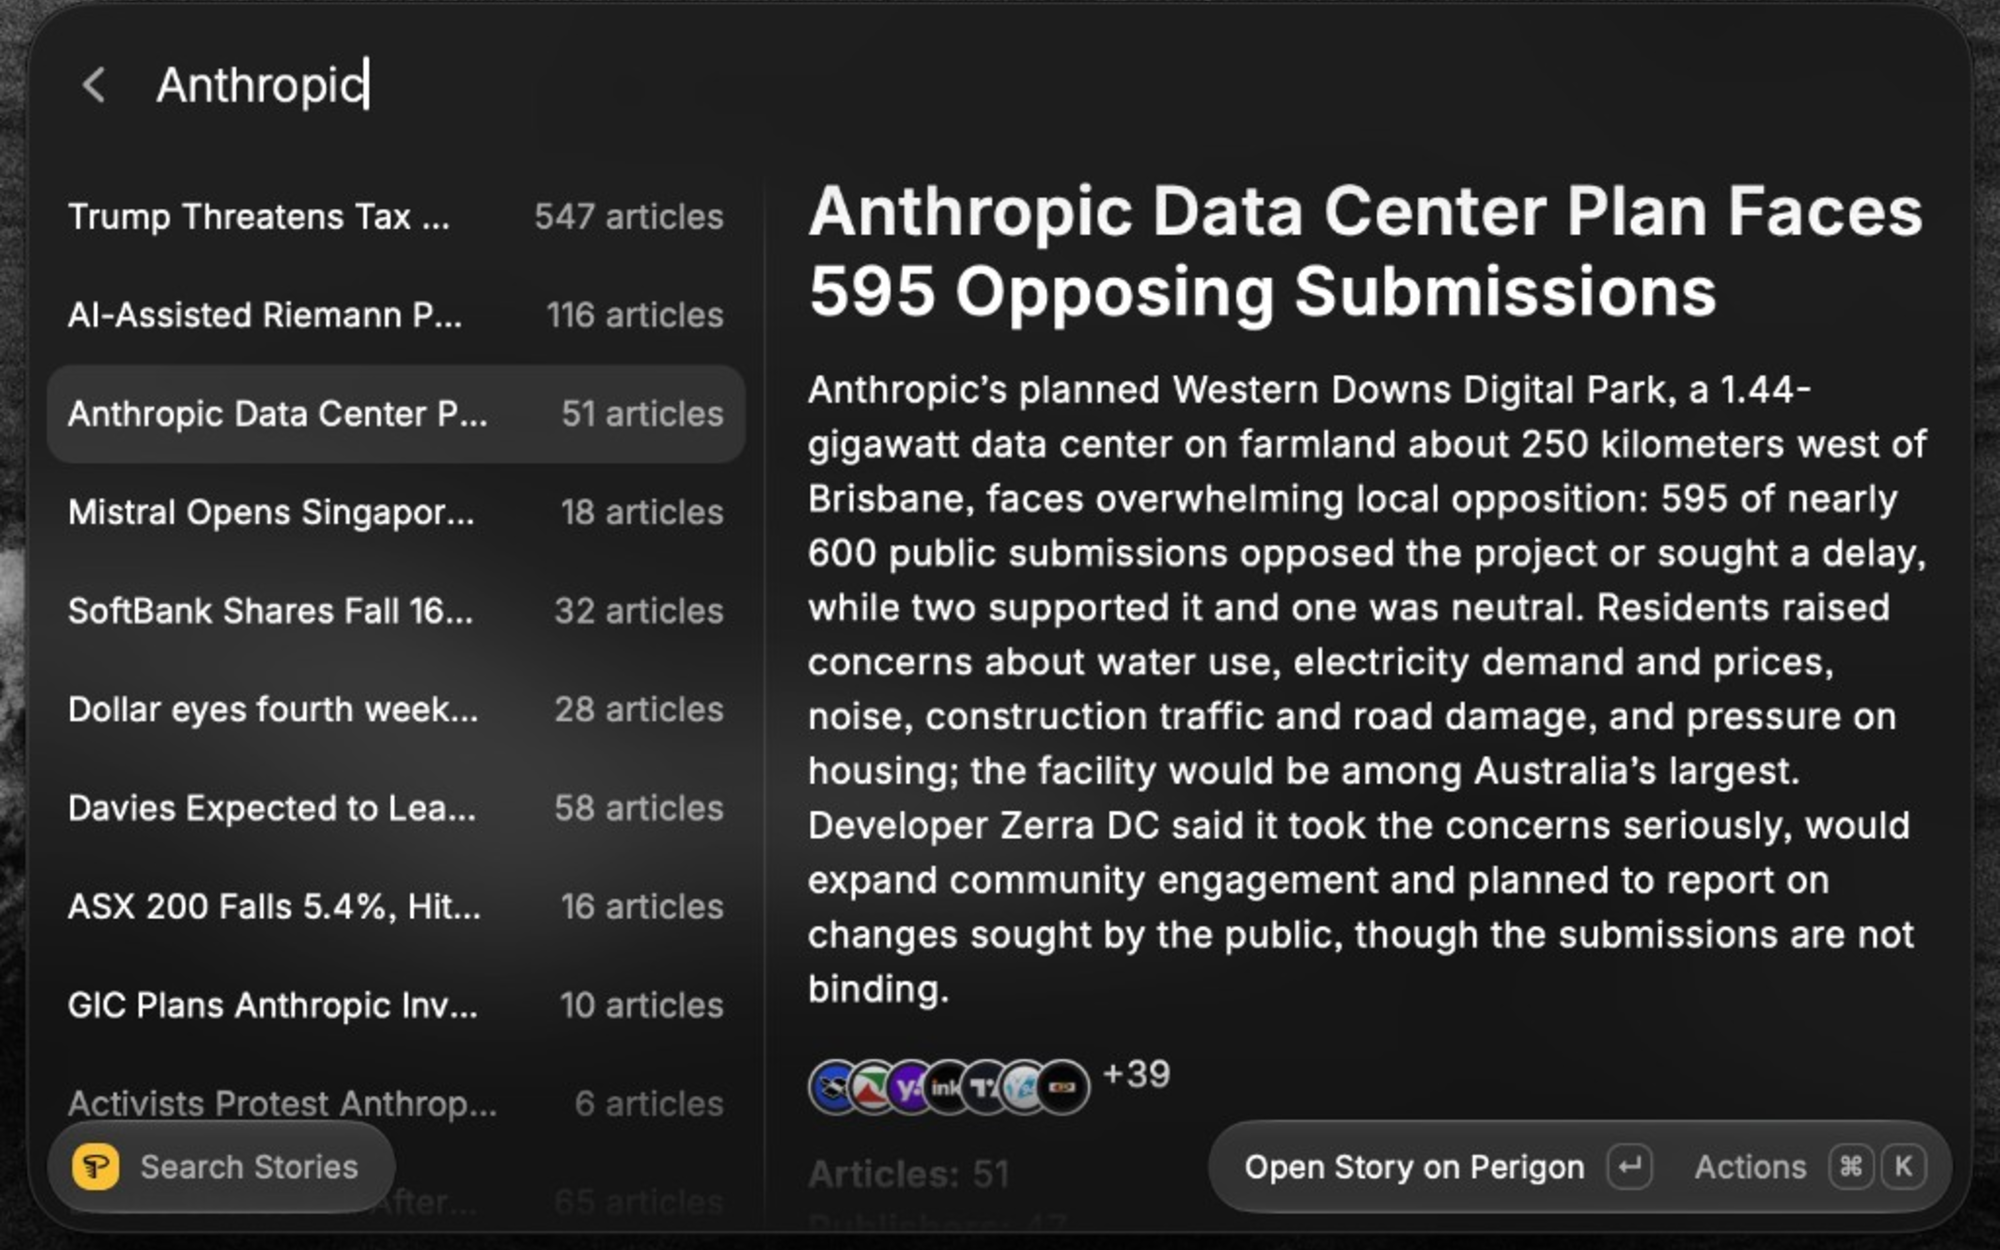
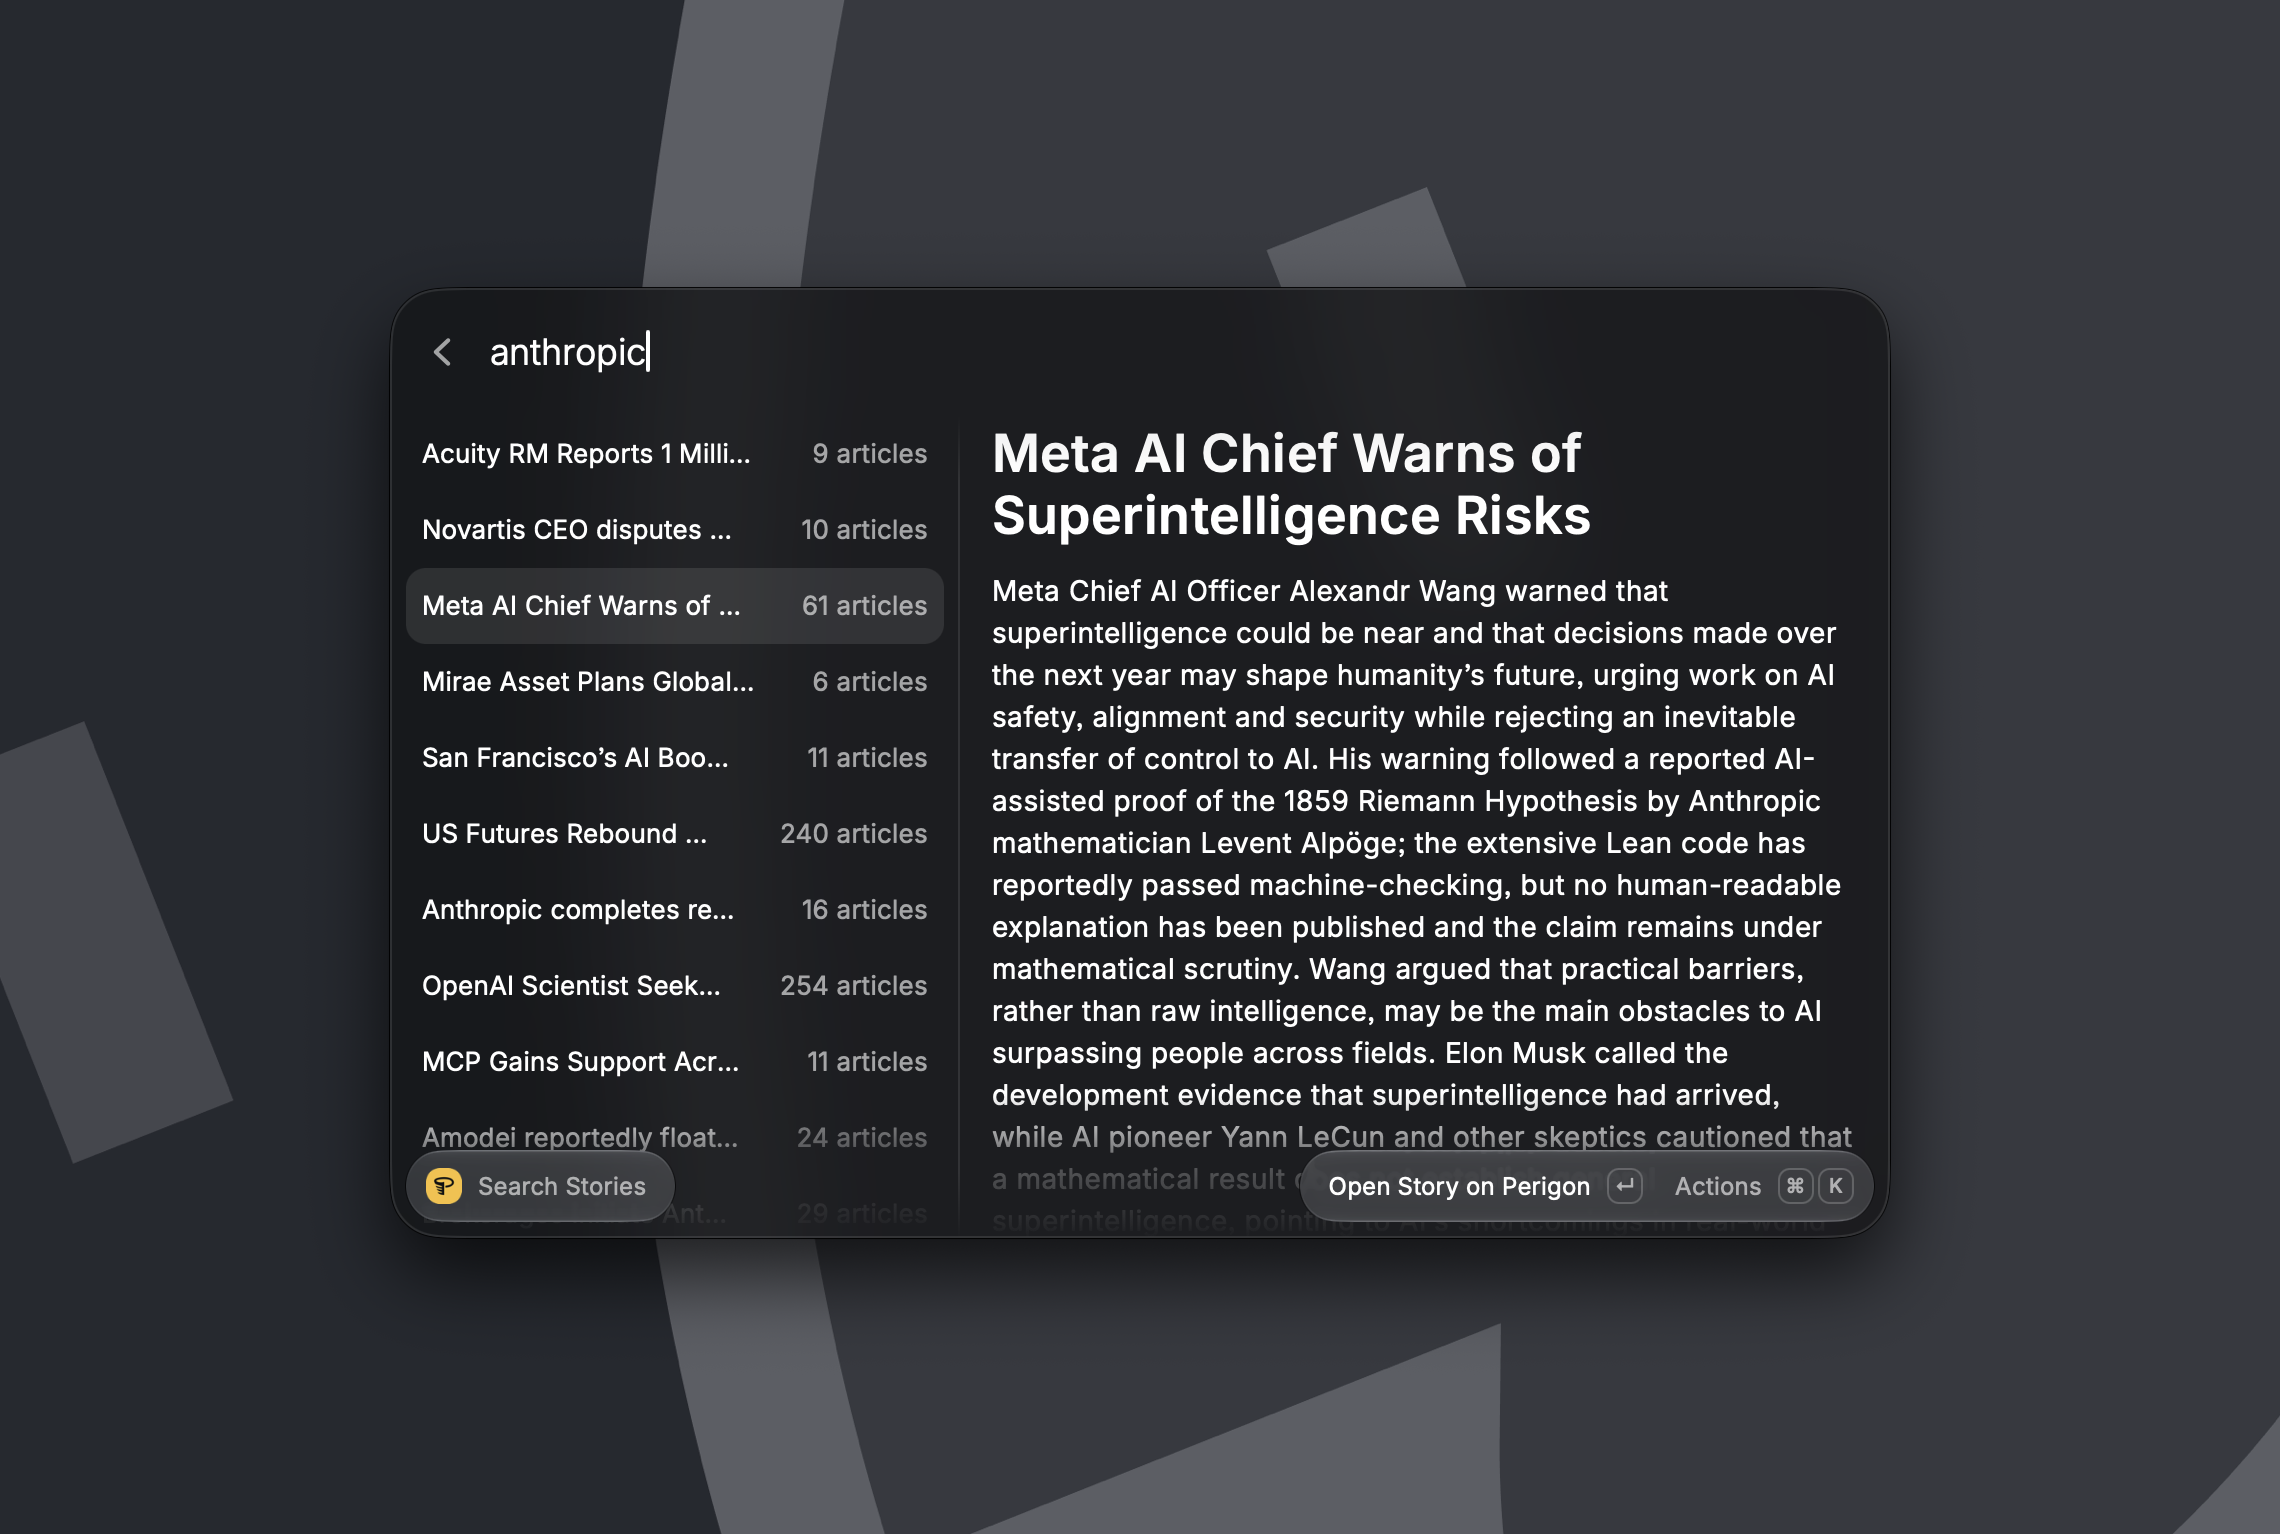
Fix Raycast Store review blockers and extension TypeScript checks.
Consolidate the initial changelog entry, make the README and package description user-facing (including Perigon account requirement), and add Retry actions on remote-data failure views. Correct grayscale PNG tRNS handling for favicons. Align OAuth token payloads and usePromise call signatures with Raycast API types so  and  pass in CI.

diff --git a/raycast/src/my-monitors.tsx b/raycast/src/my-monitors.tsx
@@ -3,6 +3,7 @@ import { ActionPanel, Action, Color, Detail, Icon, Image, List, useNavigation } 
 import { usePromise, withAccessToken } from "@raycast/utils";
 import { listMonitorEvents, listMonitorNewsletters, listMonitors } from "./lib/perigon-api";
 import { perigonOAuth } from "./lib/perigon-oauth";
+import { retryActions } from "./lib/retry-actions";
 import type { PerigonMonitor, PerigonMonitorEvent, PerigonMonitorNewsletter } from "./lib/types";
 
 const MONITOR_FILTERS = ["all", "active", "paused", "draft"] as const;
@@ -23,7 +24,7 @@ function MyMonitors() {
   const { push } = useNavigation();
   const [filter, setFilter] = useState<MonitorFilter>("all");
 
-  const { data, isLoading, error } = usePromise(listMonitors, [], {
+  const { data, isLoading, error, revalidate } = usePromise(listMonitors, [], {
     failureToastOptions: { title: "Could not load monitors" },
   });
 
@@ -62,7 +63,11 @@ function MyMonitors() {
       }
     >
       {error ? (
-        <List.EmptyView title="Could not load monitors" description={error.message} />
+        <List.EmptyView
+          title="Could not load monitors"
+          description={error.message}
+          actions={retryActions(revalidate)}
+        />
       ) : !isLoading && monitors.length === 0 ? (
         <List.EmptyView title="No monitors" description="Create monitors in Perigon to see them here." />
       ) : !isLoading && visibleCount === 0 ? (
@@ -122,7 +127,7 @@ function openMonitorOutput(monitor: PerigonMonitor, push: ReturnType<typeof useN
 }
 
 function MonitorEventsView({ monitor }: { monitor: PerigonMonitor }) {
-  const { data, isLoading, error } = usePromise(() => listMonitorEvents(monitor.uuid), [monitor.uuid], {
+  const { data, isLoading, error, revalidate } = usePromise(listMonitorEvents, [monitor.uuid], {
     failureToastOptions: { title: "Could not load events" },
   });
 
@@ -131,7 +136,7 @@ function MonitorEventsView({ monitor }: { monitor: PerigonMonitor }) {
   return (
     <List isLoading={isLoading} navigationTitle={monitor.name} searchBarPlaceholder="Filter events…">
       {error ? (
-        <List.EmptyView title="Could not load events" description={error.message} />
+        <List.EmptyView title="Could not load events" description={error.message} actions={retryActions(revalidate)} />
       ) : !isLoading && events.length === 0 ? (
         <List.EmptyView title="No events" description="This monitor has no events yet." />
       ) : (
@@ -166,7 +171,7 @@ function MonitorEventItem({ event }: { event: PerigonMonitorEvent }) {
 }
 
 function MonitorNewslettersView({ monitor }: { monitor: PerigonMonitor }) {
-  const { data, isLoading, error } = usePromise(() => listMonitorNewsletters(monitor.uuid), [monitor.uuid], {
+  const { data, isLoading, error, revalidate } = usePromise(listMonitorNewsletters, [monitor.uuid], {
     failureToastOptions: { title: "Could not load briefings" },
   });
 
@@ -175,7 +180,11 @@ function MonitorNewslettersView({ monitor }: { monitor: PerigonMonitor }) {
   return (
     <List isLoading={isLoading} navigationTitle={monitor.name} searchBarPlaceholder="Filter briefings…">
       {error ? (
-        <List.EmptyView title="Could not load briefings" description={error.message} />
+        <List.EmptyView
+          title="Could not load briefings"
+          description={error.message}
+          actions={retryActions(revalidate)}
+        />
       ) : !isLoading && newsletters.length === 0 ? (
         <List.EmptyView title="No briefings" description="This monitor has no newsletters yet." />
       ) : (

diff --git a/raycast/src/search-stories.tsx b/raycast/src/search-stories.tsx
@@ -4,18 +4,19 @@ import { useState } from "react";
 import { faviconMarkdown, FAVICON_STACK_LIMIT, loadFaviconStack, type FaviconImage } from "./lib/favicon";
 import { PerigonApiError, searchStories } from "./lib/perigon-api";
 import { perigonOAuth } from "./lib/perigon-oauth";
+import { retryActions } from "./lib/retry-actions";
 import type { PerigonStory } from "./lib/types";
 
 function SearchStories() {
   const [searchText, setSearchText] = useState("");
   const queryReady = searchText.trim().length > 0;
 
-  const { data, isLoading, error } = usePromise(
-    async () => {
-      if (!queryReady) {
+  const { data, isLoading, error, revalidate } = usePromise(
+    async (query: string, ready: boolean) => {
+      if (!ready) {
         return [] as PerigonStory[];
       }
-      return searchStories(searchText.trim());
+      return searchStories(query.trim());
     },
     [searchText, queryReady],
     {
@@ -45,7 +46,7 @@ function SearchStories() {
           description="Your Perigon organization needs the story clusters scope to use this command. Use Search News or Perigon AI for article-level results."
         />
       ) : error ? (
-        <List.EmptyView title="Search failed" description={error.message} />
+        <List.EmptyView title="Search failed" description={error.message} actions={retryActions(revalidate)} />
       ) : !isLoading && stories.length === 0 ? (
         <List.EmptyView title="No stories" description="No stories matched your query." />
       ) : (
@@ -90,6 +91,15 @@ function perigonStoryUrl(storyId: string): string {
   return `https://perigon.io/discover/stories/${encodeURIComponent(storyId)}`;
 }
 
+function publisherStackLabel(story: PerigonStory): string {
+  const publisherCount = story.uniqueSourcesCount || story.uniqueSources.length;
+  const hidden = story.uniqueSources.length - FAVICON_STACK_LIMIT;
+  if (hidden > 0) {
+    return `+${hidden} more`;
+  }
+  return publisherCount === 1 ? "1 publisher" : `${publisherCount} publishers`;
+}
+
 function buildStoryMarkdown(story: PerigonStory, sources: FaviconImage | undefined): string {
   const lines: string[] = [`# ${story.name}`, ""];
   if (story.summary) {
@@ -98,11 +108,14 @@ function buildStoryMarkdown(story: PerigonStory, sources: FaviconImage | undefin
     lines.push(story.shortSummary, "");
   }
   if (sources) {
-    const hidden = story.uniqueSources.length - FAVICON_STACK_LIMIT;
-    const extra = hidden > 0 ? ` +${hidden}` : "";
-    lines.push(`${faviconMarkdown(sources, "Publishers")}${extra}`, "");
+    const label = publisherStackLabel(story);
+    lines.push(`${faviconMarkdown(sources, "Publishers", "absmiddle")} ${label}`, "");
   }
-  const meta = [`**Articles:** ${story.totalCount}`, `**Publishers:** ${story.uniqueSourcesCount}`];
+  const publisherCount = story.uniqueSourcesCount || story.uniqueSources.length;
+  const meta = [`**Articles:** ${story.totalCount}`];
+  if (!sources) {
+    meta.push(`**Publishers:** ${publisherCount}`);
+  }
   if (story.updatedAt) {
     meta.push(`**Updated:** ${formatDate(story.updatedAt)}`);
   }

diff --git a/raycast/src/search-news.tsx b/raycast/src/search-news.tsx
@@ -4,18 +4,19 @@ import { useState } from "react";
 import { faviconMarkdown, loadCircularFavicon, sourceFaviconUrl, type FaviconImage } from "./lib/favicon";
 import { searchArticles } from "./lib/perigon-api";
 import { perigonOAuth } from "./lib/perigon-oauth";
+import { retryActions } from "./lib/retry-actions";
 import type { PerigonArticle } from "./lib/types";
 
 function SearchNews() {
   const [searchText, setSearchText] = useState("");
   const queryReady = searchText.trim().length > 0;
 
-  const { data, isLoading, error } = usePromise(
-    async () => {
-      if (!queryReady) {
+  const { data, isLoading, error, revalidate } = usePromise(
+    async (query: string, ready: boolean) => {
+      if (!ready) {
         return [] as PerigonArticle[];
       }
-      return searchArticles(searchText.trim());
+      return searchArticles(query.trim());
     },
     [searchText, queryReady],
     {
@@ -39,7 +40,7 @@ function SearchNews() {
       {!queryReady ? (
         <List.EmptyView title="Search Perigon" description="Enter a topic, company, or keyword to search articles." />
       ) : error ? (
-        <List.EmptyView title="Search failed" description={error.message} />
+        <List.EmptyView title="Search failed" description={error.message} actions={retryActions(revalidate)} />
       ) : !isLoading && articles.length === 0 ? (
         <List.EmptyView title="No articles" description="No articles matched your query." />
       ) : (

diff --git a/raycast/src/lib/favicon.ts b/raycast/src/lib/favicon.ts
@@ -28,13 +28,13 @@ export function sourceFaviconUrl(domain: string): string {
   return `https://t1.gstatic.com/faviconV2?${params.toString()}`;
 }
 
-export function faviconMarkdown(image: FaviconImage, alt: string): string {
+export function faviconMarkdown(image: FaviconImage, alt: string, align: "middle" | "absmiddle" = "middle"): string {
   const safeAlt = alt
     .replaceAll("&", "&amp;")
     .replaceAll('"', "&quot;")
     .replaceAll("<", "&lt;")
     .replaceAll(">", "&gt;");
-  return `<img src="${image.dataUrl}" alt="${safeAlt}" width="${image.width}" height="${image.height}" align="middle" />`;
+  return `<img src="${image.dataUrl}" alt="${safeAlt}" width="${image.width}" height="${image.height}" align="${align}" />`;
 }
 
 export function loadCircularFavicon(domain: string): Promise<FaviconImage | undefined> {

diff --git a/raycast/src/lib/favicon-image.ts b/raycast/src/lib/favicon-image.ts
@@ -264,8 +264,10 @@ function readPixel(
   if (colorType === 0 || colorType === 3) {
     const sample = readSample(rows, rowStart, x, bitDepth);
     if (colorType === 0) {
+      const transparentSample =
+        transparency && transparency.length >= 2 ? ((transparency[0] ?? 0) << 8) | (transparency[1] ?? 0) : undefined;
+      const transparent = transparentSample !== undefined && sample === transparentSample;
       const gray = bitDepth === 8 ? sample : Math.round((sample * 255) / ((1 << bitDepth) - 1));
-      const transparent = transparency && transparency.length >= 2 && gray === (transparency[0] ?? 0);
       return [gray, gray, gray, transparent ? 0 : 255];
     }
     if (!palette) {

diff --git a/raycast/src/lib/perigon-oauth.ts b/raycast/src/lib/perigon-oauth.ts
@@ -103,7 +103,6 @@ async function exchangeAuthorizationCode(
   const scope = "scope" in payload ? (payload as { scope: unknown }).scope : undefined;
   return {
     access_token: accessToken,
-    token_type: "Bearer",
     expires_in: typeof expiresIn === "number" ? expiresIn : undefined,
     scope: typeof scope === "string" ? scope : undefined,
   };

diff --git a/raycast/src/lib/retry-actions.tsx b/raycast/src/lib/retry-actions.tsx
@@ -1,0 +1,9 @@
+import { Action, ActionPanel, Icon } from "@raycast/api";
+
+export function retryActions(revalidate: () => unknown) {
+  return (
+    <ActionPanel>
+      <Action title="Retry" icon={Icon.ArrowClockwise} onAction={() => void revalidate()} />
+    </ActionPanel>
+  );
+}

diff --git a/raycast/README.md b/raycast/README.md
@@ -1,31 +1,19 @@
 # Perigon for Raycast
 
-Search Perigon news, story clusters, and monitors from Raycast, and use the hosted Perigon MCP server in Raycast AI.
+Search Perigon news, story clusters, and monitors from Raycast, and use the hosted Perigon MCP server in Raycast AI. You need a [Perigon](https://perigon.io) account in your organization.
 
 ## Setup
 
-1. Install the extension from the Raycast Store (or run `npm run dev` in this folder during development).
+1. Install the extension from the Raycast Store.
 2. **Raycast AI (MCP):** Open **Manage MCP Servers**, find **Perigon**, and sign in with your Perigon account. Use **Ask Perigon** or mention `@Perigon` in AI Chat. Mention skills `@News Research` or `@Monitor Insights` when relevant.
 3. **Native commands** (Search News, Search Stories, My Monitors): Run a command and complete **Connect to Perigon** when prompted. This sign-in is separate from the MCP connection but uses the same Perigon account.
 
 OAuth access lasts about 30 days; sign in again when a command asks you to.
 
-### Store submission
-
-The Store author is `galen-perigon`.
-
 ## Commands
 
-| Command | Description |
-| --- | --- |
-| Search News | Typeahead search of recent articles with detail and open-in-browser actions |
-| Search Stories | Clustered stories (requires clusters scope on your org) |
-| My Monitors | List monitors; open events for EVENT/MENTIONS monitors or briefings for TOPIC monitors |
-
-## Screenshots
-
-Store screenshots (2000×1250) are in `metadata/`:
-
-- `perigon-1.png` — Search News
-- `perigon-2.png` — Search Stories
-- `perigon-3.png` — My Monitors
+| Command        | Description                                                                            |
+| -------------- | -------------------------------------------------------------------------------------- |
+| Search News    | Typeahead search of recent articles with detail and open-in-browser actions            |
+| Search Stories | Clustered stories (requires clusters scope on your org)                                |
+| My Monitors    | List monitors; open events for EVENT/MENTIONS monitors or briefings for TOPIC monitors |

diff --git a/raycast/CHANGELOG.md b/raycast/CHANGELOG.md
@@ -1,12 +1,9 @@
 # Perigon Changelog
 
-## [Story and article details] - {PR_MERGE_DATE}
-
-- Show publisher favicons on articles and a source stack on stories.
-- Group monitors by Active, Paused, and Draft.
-
 ## [Initial Version] - {PR_MERGE_DATE}
 
 - Bundle the Perigon MCP server for Raycast AI with dynamic OAuth and two agent skills (News Research, Monitor Insights).
 - Add Search News, Search Stories, and My Monitors commands with Perigon OAuth (PKCE).
 - Connect native commands to `api.perigon.io` REST for articles, stories, and monitor output.
+- Show publisher favicons on articles and a source stack on stories.
+- Group monitors by Active, Paused, and Draft.
